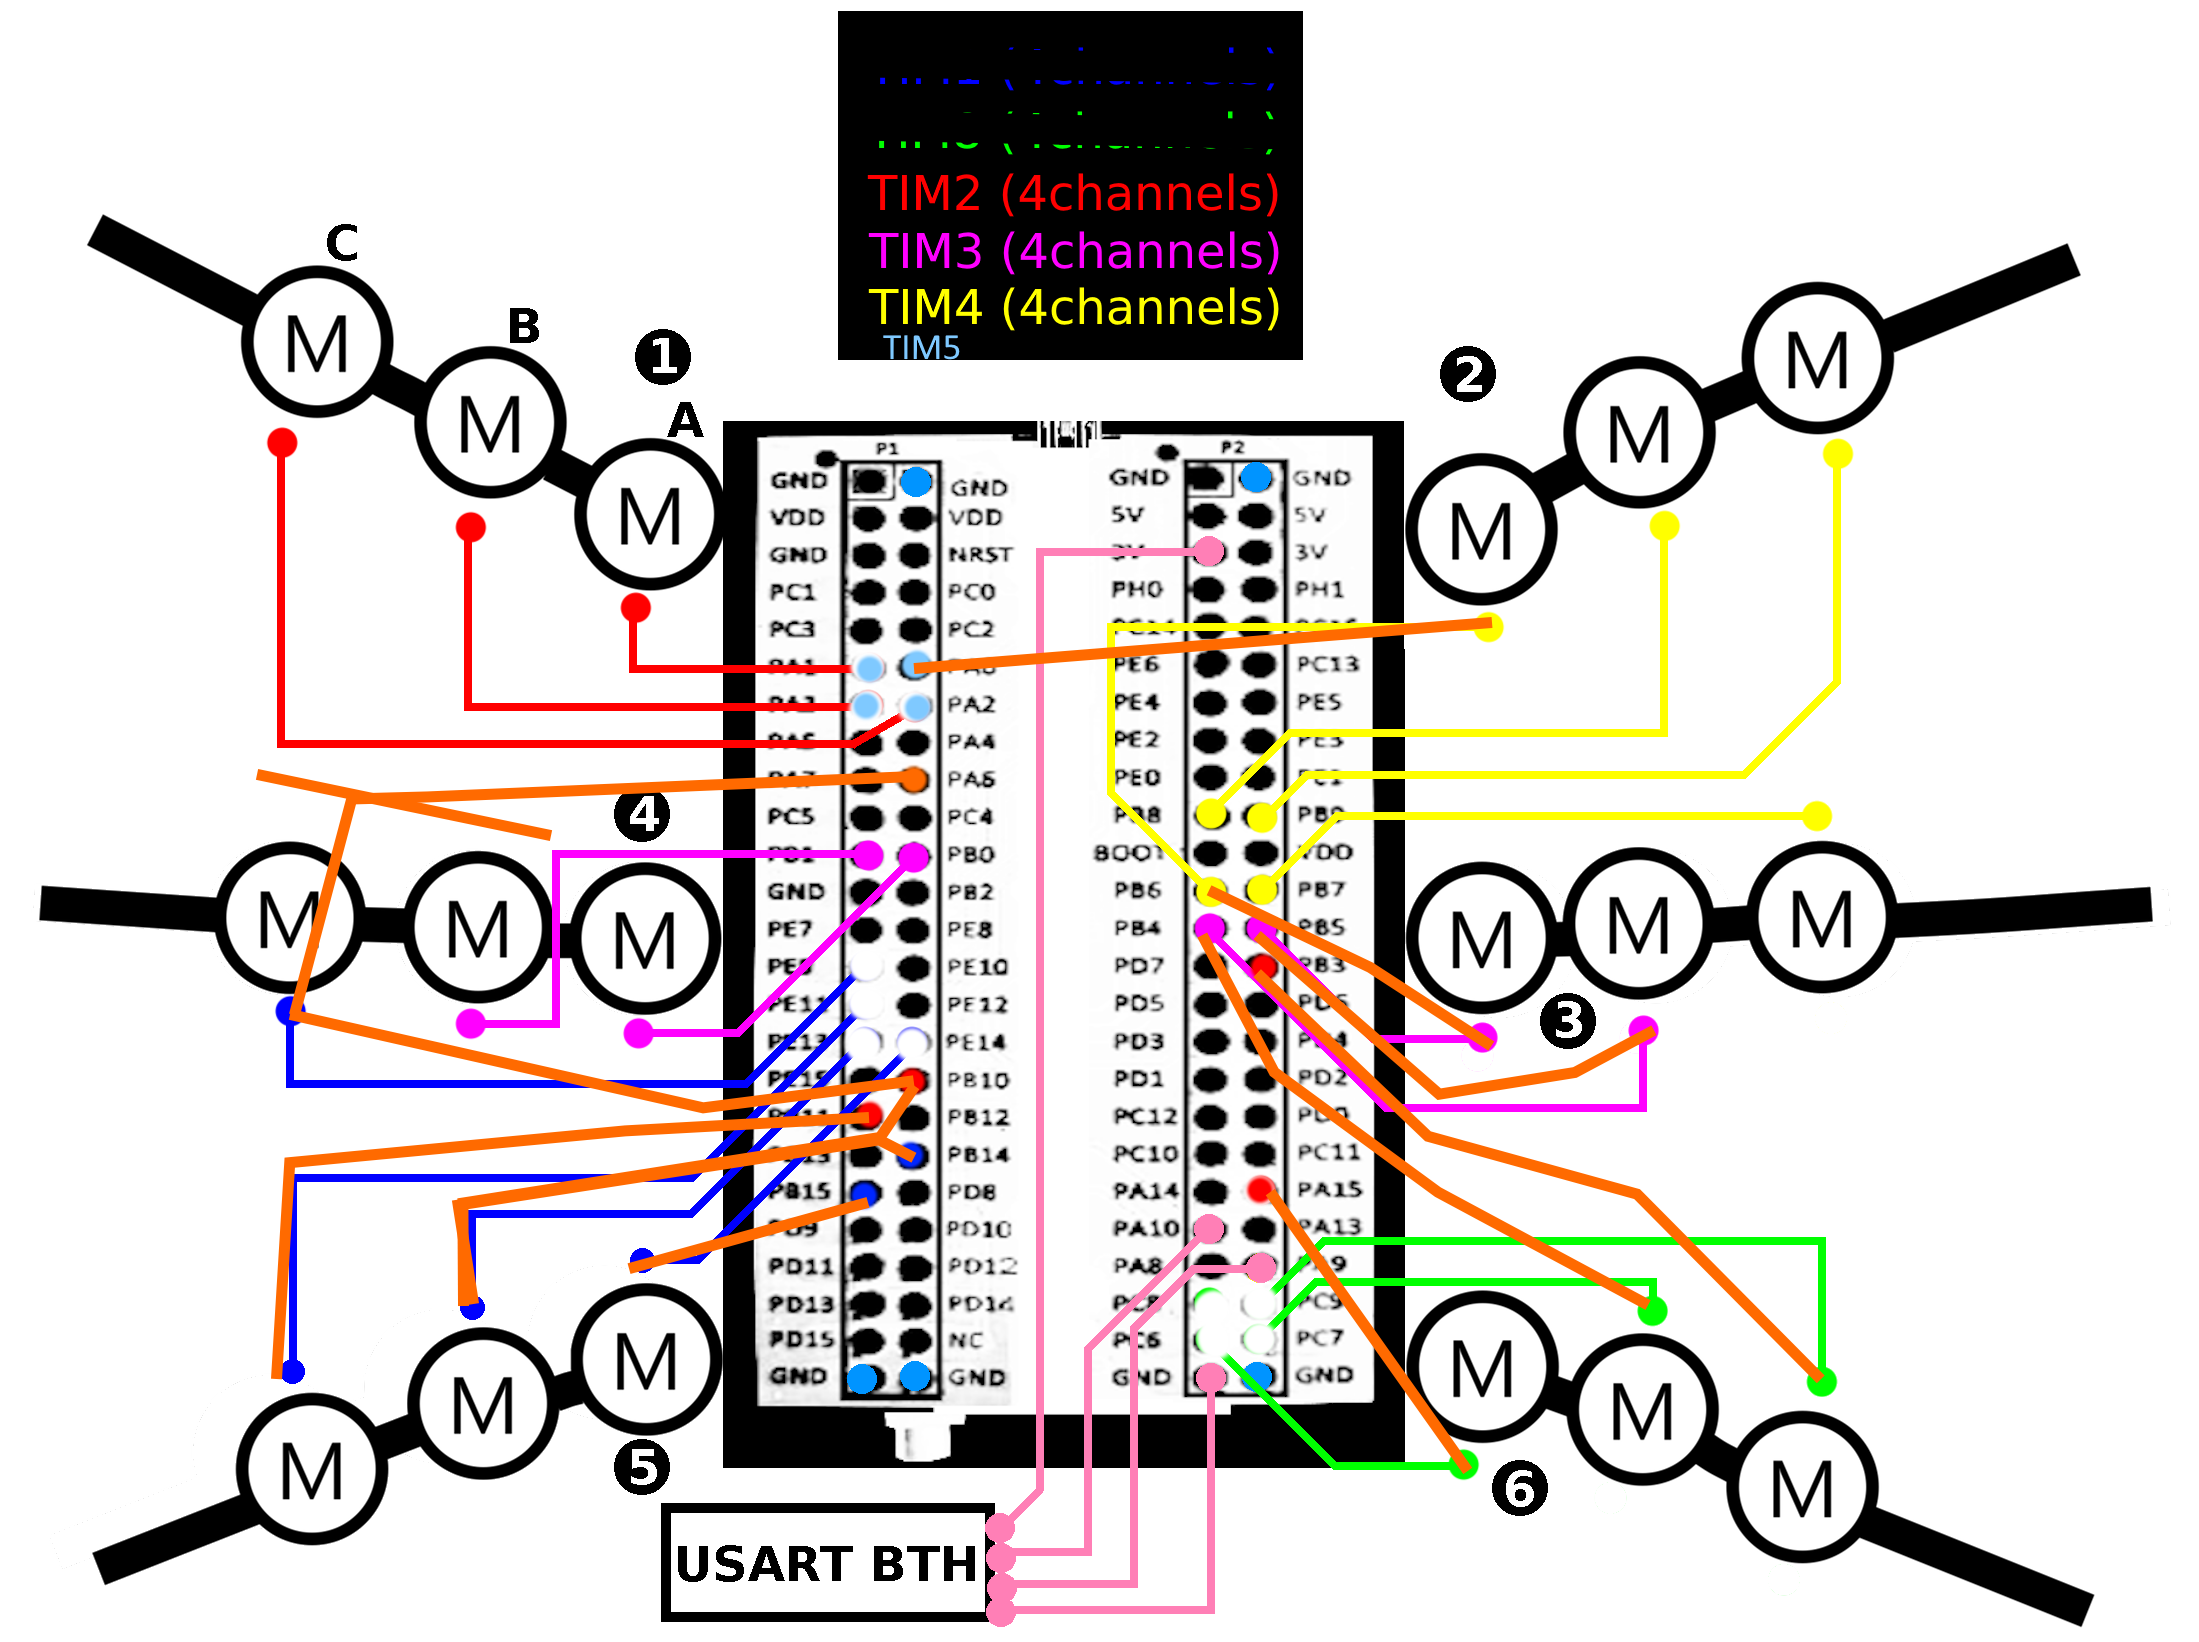
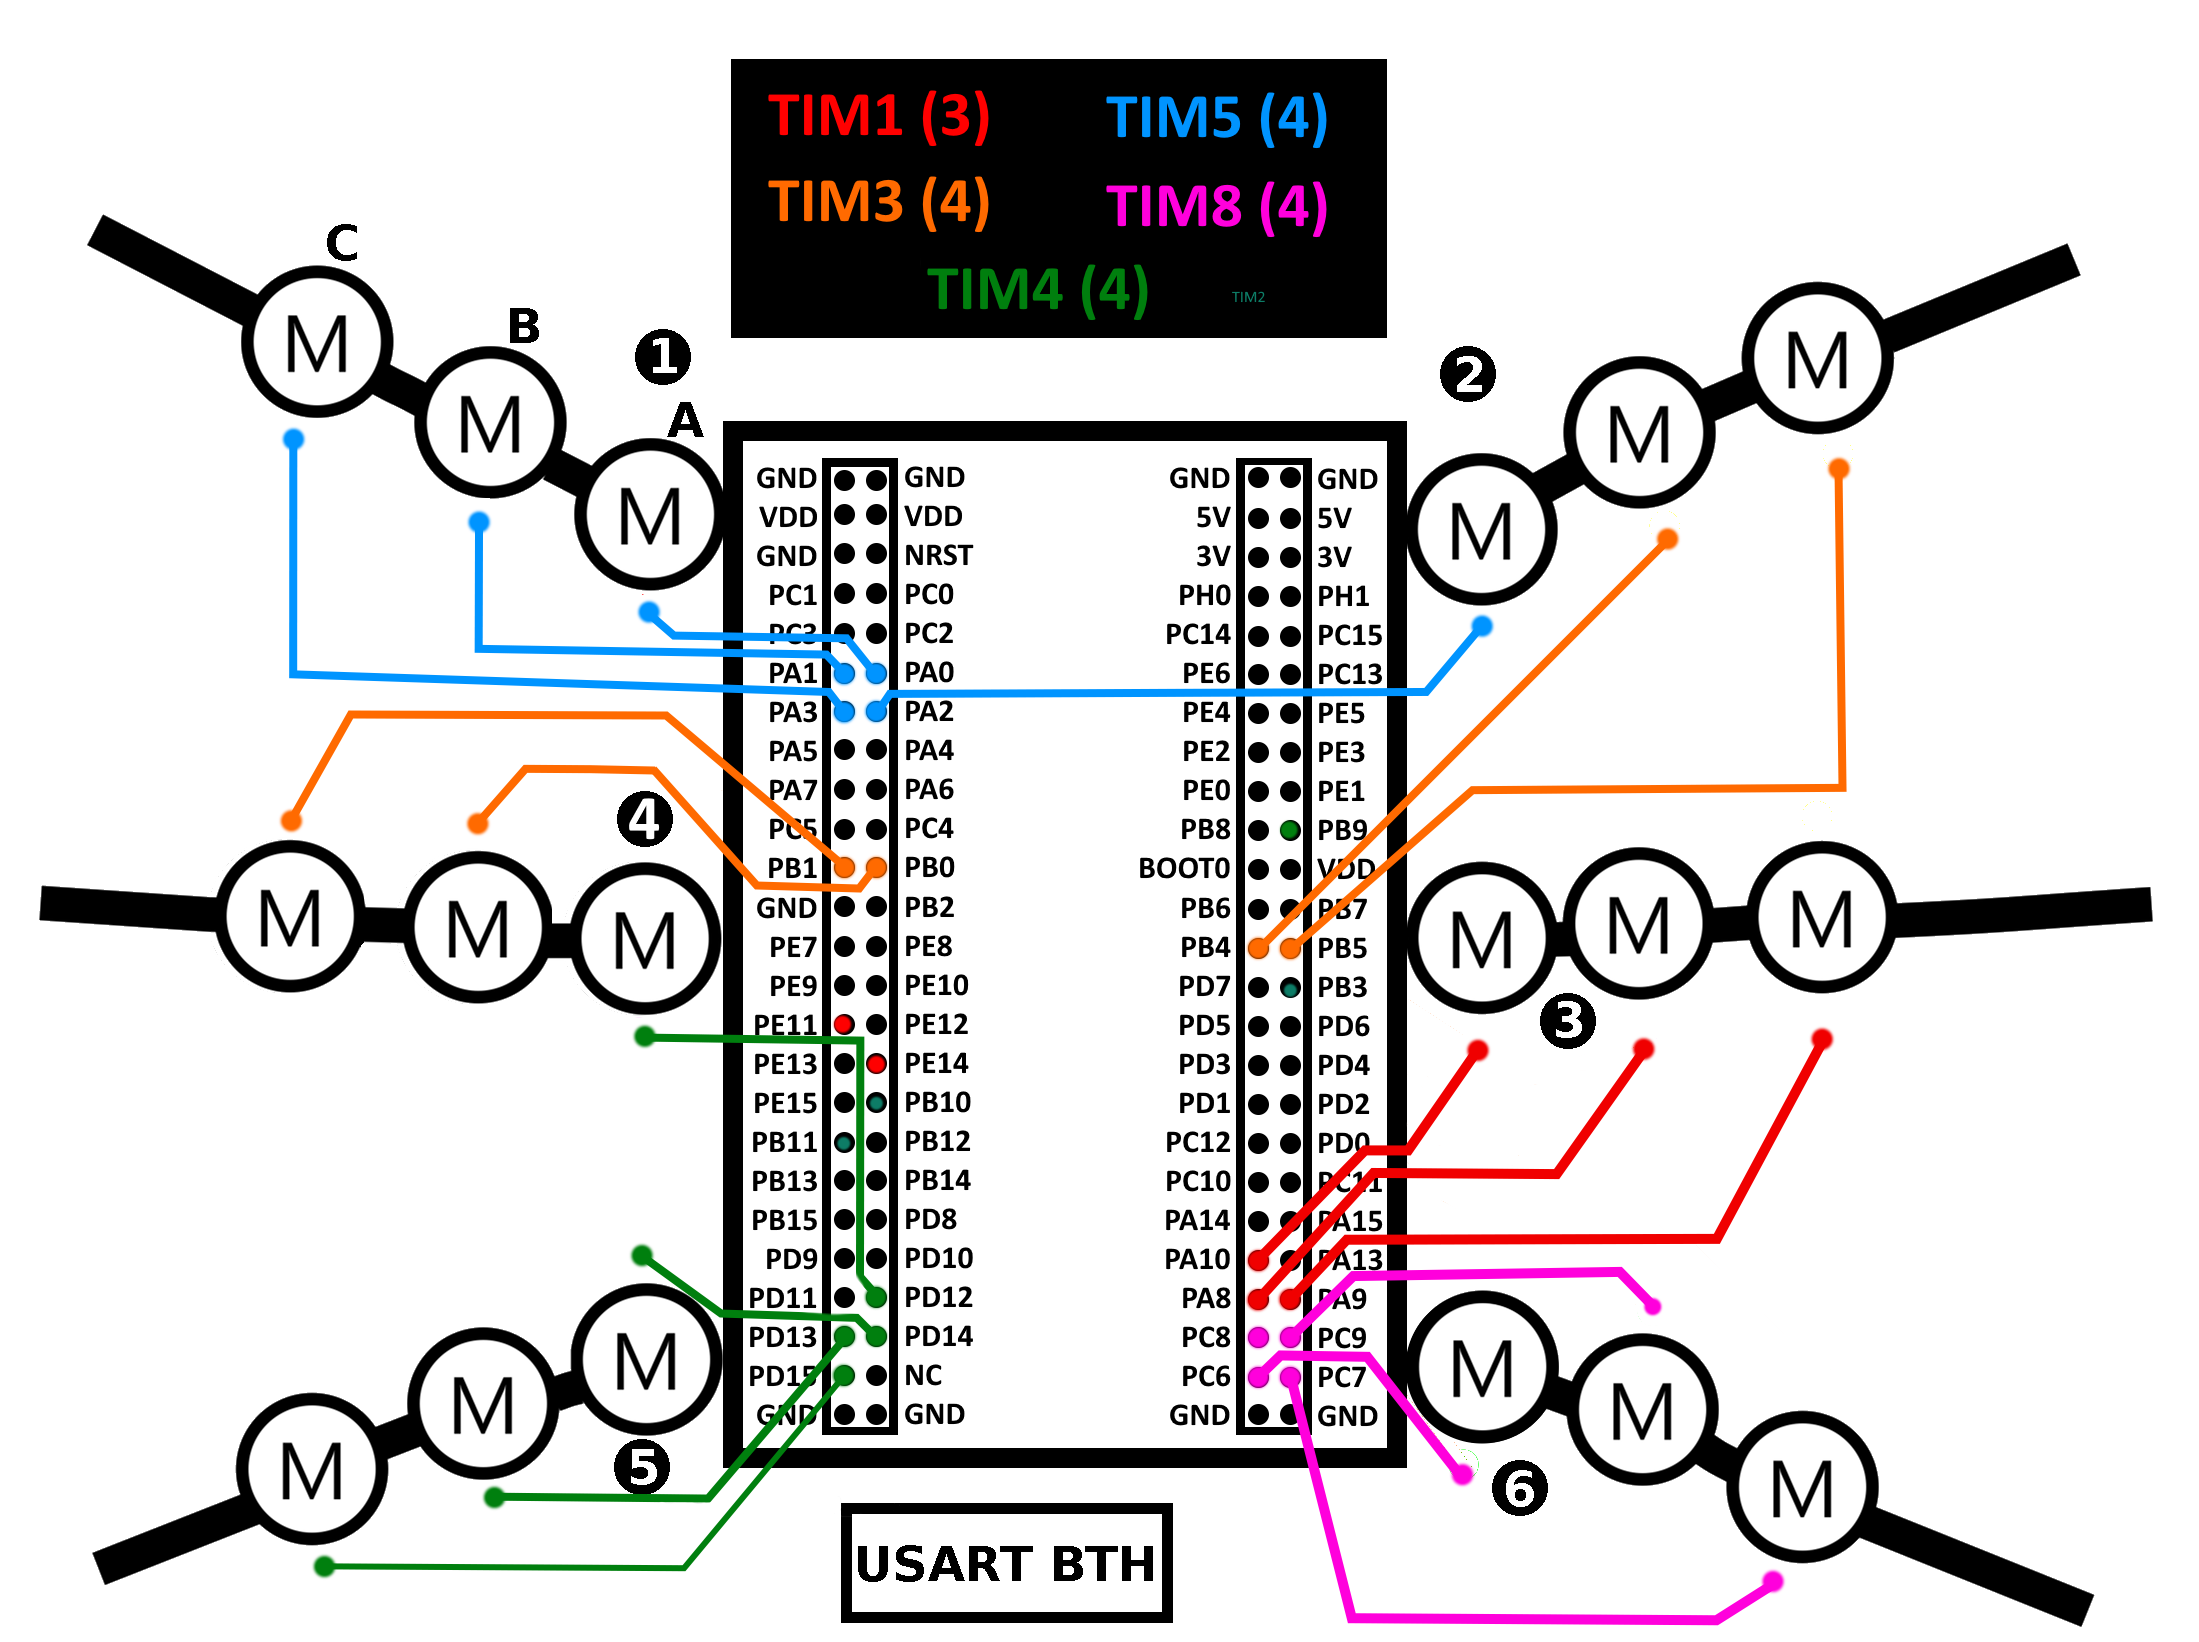
Clean code and schema

Changed region(s): [[0.1237, 0.2485, 0.8658, 0.9939], [0.3092, 0.0, 0.6494, 0.2174], [0.804, 0.6212, 0.8349, 0.6833]]

diff --git a/STM32RT/include/stm32f4/src/init.c b/STM32RT/include/stm32f4/src/init.c
@@ -21,62 +21,36 @@
 
 
 
-void set_servo1A(int n){TIM5_CCR2 = SERVO_05MS + (n*(SERVO_1MS/900));}
-void set_servo1B(int n){TIM5_CCR4 = SERVO_05MS + (n*(SERVO_1MS/900));}
-void set_servo1C(int n){TIM5_CCR3 = SERVO_05MS + (n*(SERVO_1MS/900));}
+void set_servo1A(int n){TIM5_CCR1 = SERVO_05MS + (n*(SERVO_1MS/900));}
+void set_servo1B(int n){TIM5_CCR2 = SERVO_05MS + (n*(SERVO_1MS/900));}
+void set_servo1C(int n){TIM5_CCR4 = SERVO_05MS + (n*(SERVO_1MS/900));}
 
 
-void set_servo2A(int n){TIM5_CCR1 = SERVO_05MS + (n*(SERVO_1MS/900));}
-void set_servo2B(int n){TIM4_CCR3 = SERVO_05MS + (n*(SERVO_1MS/900));}
-void set_servo2C(int n){TIM4_CCR4 = SERVO_05MS + (n*(SERVO_1MS/900));}
+void set_servo2A(int n){TIM5_CCR3 = SERVO_05MS + (n*(SERVO_1MS/900));}
+void set_servo2B(int n){TIM3_CCR1 = SERVO_05MS + (n*(SERVO_1MS/900));}
+void set_servo2C(int n){TIM3_CCR2 = SERVO_05MS + (n*(SERVO_1MS/900));}
 
 
-void set_servo3A(int n){TIM4_CCR1 = SERVO_05MS + (n*(SERVO_1MS/900));}
-void set_servo3B(int n){TIM3_CCR2 = SERVO_05MS + (n*(SERVO_1MS/900));}
-void set_servo3C(int n){TIM4_CCR2 = SERVO_05MS + (n*(SERVO_1MS/900));}
+void set_servo3A(int n){TIM1_CCR3 = SERVO_05MS + (n*(SERVO_1MS/900));}
+void set_servo3B(int n){TIM1_CCR1 = SERVO_05MS + (n*(SERVO_1MS/900));}
+void set_servo3C(int n){TIM1_CCR2 = SERVO_05MS + (n*(SERVO_1MS/900));}
 
-void set_servo4A(int n){TIM3_CCR3 = SERVO_05MS + (n*(SERVO_1MS/900));}
-void set_servo4B(int n){TIM3_CCR4 = SERVO_05MS + (n*(SERVO_1MS/900));}
-void set_servo4C(int n){TIM2_CCR3 = SERVO_05MS + (n*(SERVO_1MS/900));}
+void set_servo4A(int n){TIM4_CCR1 = SERVO_05MS + (n*(SERVO_1MS/900));}
+void set_servo4B(int n){TIM3_CCR3 = SERVO_05MS + (n*(SERVO_1MS/900));}
+void set_servo4C(int n){TIM3_CCR4 = SERVO_05MS + (n*(SERVO_1MS/900));}
 
-void set_servo5A(int n){TIM12_CCR2 = SERVO_05MS + (n*(SERVO_1MS/900));}
-void set_servo5B(int n){TIM12_CCR1 = SERVO_05MS + (n*(SERVO_1MS/900));}
-void set_servo5C(int n){TIM2_CCR4 = SERVO_05MS + (n*(SERVO_1MS/900));}
+void set_servo5A(int n){TIM4_CCR3 = SERVO_05MS + (n*(SERVO_1MS/900));}
+void set_servo5B(int n){TIM4_CCR2 = SERVO_05MS + (n*(SERVO_1MS/900));}
+void set_servo5C(int n){TIM4_CCR4 = SERVO_05MS + (n*(SERVO_1MS/900));}
 
-void set_servo6A(int n){TIM2_CCR1 = SERVO_05MS + (n*(SERVO_1MS/900));}
-void set_servo6B(int n){TIM3_CCR1 = SERVO_05MS + (n*(SERVO_1MS/900));}
-void set_servo6C(int n){TIM2_CCR2 = SERVO_05MS + (n*(SERVO_1MS/900));}
+void set_servo6A(int n){TIM8_CCR1 = SERVO_05MS + (n*(SERVO_1MS/900));}
+void set_servo6B(int n){TIM8_CCR4 = SERVO_05MS + (n*(SERVO_1MS/900));}
+void set_servo6C(int n){TIM8_CCR2 = SERVO_05MS + (n*(SERVO_1MS/900));}
 
+//void test(int n) {TIM1_CCR1 = SERVO_05MS + (n*(SERVO_1MS/900));}
 
-void test(int n) {TIM1_CCR1 = SERVO_05MS + (n*(SERVO_1MS/900));}
-
-
-void init_servo(){
-
-    printf("Init Servo...\n");
-
-    // RCC init
-    RCC_AHB1ENR |= RCC_GPIOAEN;
-    RCC_AHB1ENR |= RCC_GPIOBEN;
-    RCC_AHB1ENR |= RCC_GPIOCEN;
-    RCC_AHB1ENR |= RCC_GPIOEEN;
-    RCC_AHB1ENR |= RCC_GPIODEN;
-
-    RCC_APB2ENR |= RCC_TIM1EN;
-    RCC_APB2ENR |= RCC_TIM8EN;
-    RCC_APB1ENR |= RCC_TIM2EN;
-    RCC_APB1ENR |= RCC_TIM3EN;
-    RCC_APB1ENR |= RCC_TIM4EN;
-    RCC_APB1ENR |= RCC_TIM5EN;
-    RCC_APB1ENR |= RCC_TIM13EN;
-    RCC_APB2ENR |= RCC_ADC1EN;
-    ADC1_CR2 |= ADC_SWSTART;
-
-    printf("RCC init done\n");
-
-    DISABLE_IRQS;
-    
-    // TIM1 init on GPIOE PA8, PA9, PA10
+// TIM1 init on GPIOA PA8, PA9, PA10
+void init_TIM1(){
     GPIOA_MODER = REP_BITS(GPIOA_MODER, 8*2, 2, GPIO_MODER_ALT);
     GPIOA_MODER = REP_BITS(GPIOA_MODER, 9*2, 2, GPIO_MODER_ALT);
     GPIOA_MODER = REP_BITS(GPIOA_MODER, 10*2, 2, GPIO_MODER_ALT);
@@ -92,14 +66,109 @@ void init_servo(){
     TIM1_CCMR2 |= TIM_OC3M_PWM1;
     TIM1_CCER |= TIM_CC1E | TIM_CC2E | TIM_CC3E;
     TIM1_BDTR |= TIM1_MOE;
-    TIM1_CCR1 = SERVO_1MS;
-    TIM1_CCR2 = SERVO_1MS;
-    TIM1_CCR3 = SERVO_1MS;
+    // TIM1_CCR1 = SERVO_1MS;
+    // TIM1_CCR2 = SERVO_1MS;
+    // TIM1_CCR3 = SERVO_1MS;
+    // set_servo3C(900);
     TIM1_CR1 |= TIM_CEN;
 
-
     printf("TIM1 init done\n");
+}
 
+// TIM3 init on GPIOB PB4, PB5, PB0, PB1
+void init_TIM3(){
+    GPIOB_MODER = REP_BITS(GPIOB_MODER, 4*2, 2, GPIO_MODER_ALT);
+    GPIOB_MODER = REP_BITS(GPIOB_MODER, 5*2, 2, GPIO_MODER_ALT);
+    GPIOB_MODER = REP_BITS(GPIOB_MODER, 0*2, 2, GPIO_MODER_ALT);
+    GPIOB_MODER = REP_BITS(GPIOB_MODER, 1*2, 2, GPIO_MODER_ALT);
+    GPIOB_AFRL = REP_BITS(GPIOB_AFRL, 4 * 4, 4, 2);
+    GPIOB_AFRL = REP_BITS(GPIOB_AFRL, 5 * 4, 4, 2);
+    GPIOB_AFRL = REP_BITS(GPIOB_AFRL, 0 * 4, 4, 2);
+    GPIOB_AFRL = REP_BITS(GPIOB_AFRL, 1 * 4, 4, 2);
+
+    //TIM3 init
+    TIM3_CCMR1 = TIM_OC1M_PWM1 | TIM_OC2M_PWM1;
+    TIM3_CCMR2 = TIM_OC3M_PWM1 | TIM_OC4M_PWM1;
+    TIM3_CCER = TIM_CC1E | TIM_CC2E | TIM_CC3E | TIM_CC4E;
+    TIM3_CR1 = 0;
+    TIM3_PSC = SERVO_PSC;
+    TIM3_ARR = SERVO_PERIOD;
+    TIM3_EGR = TIM_UG;
+    TIM3_SR = 0;
+    // set_servo4C(900);
+    // TIM3_CCR1 = SERVO_1MS;
+    // TIM3_CCR2 = SERVO_1MS;
+    // TIM3_CCR3 = SERVO_1MS;
+    // TIM3_CCR4 = SERVO_1MS;
+    TIM3_CR1 = TIM_CEN | TIM_ARPE;
+
+    printf("TIM3 init done\n");
+}
+
+// TIM4 init on GPIOD PD12, PD13, PD14, PD15
+void init_TIM4(){
+    GPIOD_MODER = REP_BITS(GPIOD_MODER, 12*2, 2, GPIO_MODER_ALT);
+    GPIOD_MODER = REP_BITS(GPIOD_MODER, 13*2, 2, GPIO_MODER_ALT);
+    GPIOD_MODER = REP_BITS(GPIOD_MODER, 14*2, 2, GPIO_MODER_ALT);
+    GPIOD_MODER = REP_BITS(GPIOD_MODER, 15*2, 2, GPIO_MODER_ALT);
+    GPIOD_AFRH = REP_BITS(GPIOD_AFRH, (12 - 8) * 4, 4, 2);
+    GPIOD_AFRH = REP_BITS(GPIOD_AFRH, (13 - 8) * 4, 4, 2);
+    GPIOD_AFRH = REP_BITS(GPIOD_AFRH, (14 - 8) * 4, 4, 2);
+    GPIOD_AFRH = REP_BITS(GPIOD_AFRH, (15 - 8) * 4, 4, 2);
+
+    //TIM4 init
+    TIM4_CCMR1 = TIM_OC1M_PWM1 | TIM_OC2M_PWM1;
+    TIM4_CCMR2 = TIM_OC3M_PWM1 | TIM_OC4M_PWM1;
+    TIM4_CCER = TIM_CC1E | TIM_CC2E | TIM_CC3E | TIM_CC4E;
+    TIM4_CR1 = 0;
+    TIM4_PSC = SERVO_PSC;
+    TIM4_ARR = SERVO_PERIOD;
+    TIM4_EGR = TIM_UG;
+    TIM4_SR = 0;
+    // TIM4_CCR1 = SERVO_1MS;
+    // TIM4_CCR2 = SERVO_1MS;
+    // TIM4_CCR3 = SERVO_1MS;
+    // TIM4_CCR4 = SERVO_1MS;
+    // set_servo1C(600);
+    TIM4_CR1 = TIM_CEN | TIM_ARPE;
+
+    printf("TIM4 init done\n");
+}
+
+//TIM5 init on GPIOA PA0, PA1, PA2, PA3
+void init_TIM5(){
+    GPIOA_MODER = REP_BITS(GPIOA_MODER, 0*2, 2, GPIO_MODER_ALT);
+    GPIOA_MODER = REP_BITS(GPIOA_MODER, 1*2, 2, GPIO_MODER_ALT);
+    GPIOA_MODER = REP_BITS(GPIOA_MODER, 2*2, 2, GPIO_MODER_ALT);
+    GPIOA_MODER = REP_BITS(GPIOA_MODER, 3*2, 2, GPIO_MODER_ALT);
+    GPIOA_AFRL = REP_BITS(GPIOA_AFRL, 0 * 4, 4, 2);
+    GPIOA_AFRL = REP_BITS(GPIOA_AFRL, 1 * 4, 4, 2);
+    GPIOA_AFRL = REP_BITS(GPIOA_AFRL, 2 * 4, 4, 2);
+    GPIOA_AFRL = REP_BITS(GPIOA_AFRL, 3 * 4, 4, 2);
+
+    //TIM5 init
+    TIM5_CCMR1 = TIM_OC1M_PWM1 | TIM_OC2M_PWM1;
+    TIM5_CCMR2 = TIM_OC3M_PWM1 | TIM_OC4M_PWM1;
+    TIM5_CCER = TIM_CC1E | TIM_CC2E | TIM_CC3E | TIM_CC4E;
+    TIM5_CR1 = 0;
+    TIM5_PSC = SERVO_PSC;
+    TIM5_ARR = SERVO_PERIOD;
+    TIM5_EGR = TIM_UG;
+    TIM5_SR = 0;
+    //TIM5_CCR1 = SERVO_1MS;
+    // set_servo2A(900);
+    // TIM5_CCR2 = SERVO_1MS;
+    //set_servo2A(900);
+    // TIM5_CCR3 = SERVO_1MS;
+    // TIM5_CCR4 = SERVO_1MS;
+    //set_servo1C(900);
+    TIM5_CR1 = TIM_CEN | TIM_ARPE;
+
+    printf("TIM5 init done\n");
+}
+
+// TIM8 init on GPIOC PC6, PC7, PC8, PC9
+void init_TIM8(){
     GPIOC_MODER = REP_BITS(GPIOC_MODER, 6*2, 2, GPIO_MODER_ALT);
     GPIOC_MODER = REP_BITS(GPIOC_MODER, 7*2, 2, GPIO_MODER_ALT);
     GPIOC_MODER = REP_BITS(GPIOC_MODER, 8*2, 2, GPIO_MODER_ALT);
@@ -116,103 +185,46 @@ void init_servo(){
     TIM8_CCMR2 |= TIM_OC3M_PWM1 | TIM_OC4M_PWM1;
     TIM8_CCER |= TIM_CC1E | TIM_CC2E | TIM_CC3E | TIM_CC4E;
     TIM8_BDTR |= TIM1_MOE;
-    TIM8_CCR1 = SERVO_1MS;
-    TIM8_CCR2 = SERVO_1MS;
-    TIM8_CCR3 = SERVO_1MS;
-    TIM8_CCR4 = SERVO_1MS;
+    set_servo6C(2*900);
+    // TIM8_CCR1 = SERVO_1MS;
+    // TIM8_CCR2 = SERVO_1MS;
+    // TIM8_CCR3 = SERVO_1MS;
+    // TIM8_CCR4 = SERVO_1MS;
     TIM8_CR1 |= TIM_CEN;
 
     printf("TIM8 init done\n");
+}
 
-    // TIM3 init on GPIOB PB4, PB5, PB0, PB1
-    GPIOB_MODER = REP_BITS(GPIOB_MODER, 4*2, 2, GPIO_MODER_ALT);
-    GPIOB_MODER = REP_BITS(GPIOB_MODER, 5*2, 2, GPIO_MODER_ALT);
-    GPIOB_MODER = REP_BITS(GPIOB_MODER, 0*2, 2, GPIO_MODER_ALT);
-    GPIOB_MODER = REP_BITS(GPIOB_MODER, 1*2, 2, GPIO_MODER_ALT);
-    GPIOB_AFRL = REP_BITS(GPIOB_AFRL, 4 * 4, 4, 2);
-    GPIOB_AFRL = REP_BITS(GPIOB_AFRL, 5 * 4, 4, 2);
-    GPIOB_AFRL = REP_BITS(GPIOB_AFRL, 0 * 4, 4, 2);
-    GPIOB_AFRL = REP_BITS(GPIOB_AFRL, 1 * 4, 4, 2);
+void init_servo(){
 
-    //TIM3 init
-    TIM3_CCMR1 = TIM_OC1M_PWM1 | TIM_OC2M_PWM1;
-    TIM3_CCMR2 = TIM_OC3M_PWM1 | TIM_OC4M_PWM1;
-    TIM3_CCER = TIM_CC1E | TIM_CC2E | TIM_CC3E | TIM_CC4E;
-    TIM3_CCR1 = SERVO_1MS;
-    TIM3_CCR2 = SERVO_1MS;
-    TIM3_CCR3 = SERVO_1MS;
-    //set_servo4A(900);
-    TIM3_CCR4 = SERVO_1MS;
-    //set_servo4B(900);
-    TIM3_CR1 = 0;
-    TIM3_PSC = SERVO_PSC;
-    TIM3_ARR = SERVO_PERIOD;
-    TIM3_EGR = TIM_UG;
-    TIM3_SR = 0;
-    TIM3_CR1 = TIM_CEN | TIM_ARPE;
+    printf("Init Servo...\n");
 
-    printf("TIM3 init done\n");
+    // RCC init
+    RCC_AHB1ENR |= RCC_GPIOAEN;
+    RCC_AHB1ENR |= RCC_GPIOBEN;
+    RCC_AHB1ENR |= RCC_GPIOCEN;
+    RCC_AHB1ENR |= RCC_GPIOEEN;
+    RCC_AHB1ENR |= RCC_GPIODEN;
 
-    // TIM4 init on GPIOB PB6, PB7, PB8, PB9
-    GPIOD_MODER = REP_BITS(GPIOD_MODER, 12*2, 2, GPIO_MODER_ALT);
-    GPIOD_MODER = REP_BITS(GPIOD_MODER, 13*2, 2, GPIO_MODER_ALT);
-    GPIOD_MODER = REP_BITS(GPIOD_MODER, 14*2, 2, GPIO_MODER_ALT);
-    GPIOD_MODER = REP_BITS(GPIOD_MODER, 15*2, 2, GPIO_MODER_ALT);
-    GPIOD_AFRH = REP_BITS(GPIOD_AFRH, (12 - 8) * 4, 4, 2);
-    GPIOD_AFRH = REP_BITS(GPIOD_AFRH, (13 - 8) * 4, 4, 2);
-    GPIOD_AFRH = REP_BITS(GPIOD_AFRH, (14 - 8) * 4, 4, 2);
-    GPIOD_AFRH = REP_BITS(GPIOD_AFRH, (15 - 8) * 4, 4, 2);
+    RCC_APB2ENR |= RCC_TIM1EN;
+    RCC_APB2ENR |= RCC_TIM8EN;
+    RCC_APB1ENR |= RCC_TIM3EN;
+    RCC_APB1ENR |= RCC_TIM4EN;
+    RCC_APB1ENR |= RCC_TIM5EN;
+    RCC_APB1ENR |= RCC_TIM13EN;
+    RCC_APB2ENR |= RCC_ADC1EN;
+    ADC1_CR2 |= ADC_SWSTART;
 
-    //TIM4 init
-    TIM4_CCMR1 = TIM_OC1M_PWM1 | TIM_OC2M_PWM1;
-    TIM4_CCMR2 = TIM_OC3M_PWM1 | TIM_OC4M_PWM1;
-    TIM4_CCER = TIM_CC1E | TIM_CC2E | TIM_CC3E | TIM_CC4E;
-    //set_servo1A(900);
-    TIM4_CCR1 = SERVO_1MS;
-    TIM4_CCR2 = SERVO_1MS;
-    TIM4_CCR3 = SERVO_1MS;
-    //set_servo1B(600);
-    TIM4_CCR4 = SERVO_1MS;
-    //set_servo1C(600);
-    TIM4_CR1 = 0;
-    TIM4_PSC = SERVO_PSC;
-    TIM4_ARR = SERVO_PERIOD;
-    TIM4_EGR = TIM_UG;
-    TIM4_SR = 0;
-    TIM4_CR1 = TIM_CEN | TIM_ARPE;
+    printf("RCC init done\n");
 
-    printf("TIM4 init done\n");
-    
+    DISABLE_IRQS;
 
-    //TIM5 init on GPIOA PA0, PA1, PA2, PA3
-    GPIOA_MODER = REP_BITS(GPIOA_MODER, 0*2, 2, GPIO_MODER_ALT);
-    GPIOA_MODER = REP_BITS(GPIOA_MODER, 1*2, 2, GPIO_MODER_ALT);
-    GPIOA_MODER = REP_BITS(GPIOA_MODER, 2*2, 2, GPIO_MODER_ALT);
-    GPIOA_MODER = REP_BITS(GPIOA_MODER, 3*2, 2, GPIO_MODER_ALT);
-    GPIOA_AFRL = REP_BITS(GPIOA_AFRL, 0 * 4, 4, 2);
-    GPIOA_AFRL = REP_BITS(GPIOA_AFRL, 1 * 4, 4, 2);
-    GPIOA_AFRL = REP_BITS(GPIOA_AFRL, 2 * 4, 4, 2);
-    GPIOA_AFRL = REP_BITS(GPIOA_AFRL, 3 * 4, 4, 2);
-
-    //TIM5 init
-    TIM5_CCMR1 = TIM_OC1M_PWM1 | TIM_OC2M_PWM1;
-    TIM5_CCMR2 = TIM_OC3M_PWM1 | TIM_OC4M_PWM1;
-    TIM5_CCER = TIM_CC1E | TIM_CC2E | TIM_CC3E | TIM_CC4E;
-    TIM5_CCR1 = SERVO_1MS;
-    set_servo2A(900);
-    TIM5_CCR2 = SERVO_1MS;
-    //set_servo1A(900);
-    TIM5_CCR3 = SERVO_1MS;
-    TIM5_CCR4 = SERVO_1MS;
-    TIM5_CR1 = 0;
-    TIM5_PSC = SERVO_PSC;
-    TIM5_ARR = SERVO_PERIOD;
-    TIM5_EGR = TIM_UG;
-    TIM5_SR = 0;
-    TIM5_CR1 = TIM_CEN | TIM_ARPE;
-
-    printf("TIM5 init done\n");
-
+    //init PWM TIMER [1, 3, 4, 5, 8]
+    init_TIM1();
+    init_TIM3();
+    init_TIM4();
+    init_TIM5();
+    init_TIM8();
 
     /**
      * Un timer qui va générer une interruption toutes les n ms pour update les servomoteurs

diff --git a/ex14.c b/ex14.c
@@ -52,7 +52,7 @@ int main() {
 		printf("ADC1_DR = %d\n", x);
 		x = x/3 + 217;
 		printf("ADC1_DR / 3 = %d\n", x);
-		set_servo4C(x);
+		set_servo6C(2*x);
 		
 	}
 
